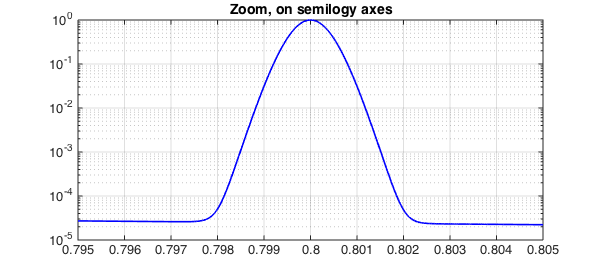
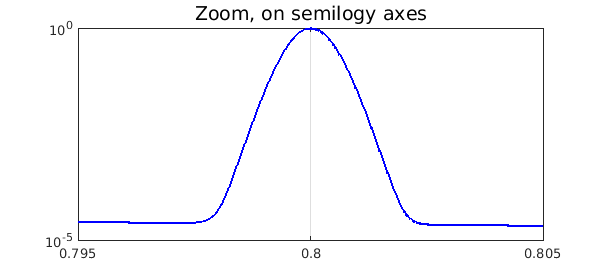
updating SpikeIntegral

diff --git a/examples/quad/img/SpikeIntegral.html b/examples/quad/img/SpikeIntegral.html
@@ -10,27 +10,75 @@ We demonstrate the adaptive capabilities of Chebfun by integrating the "spike fu
 <pre class="mcode-input">f = @(x) sech(10*(x-0.2)).^2 + sech(100*(x-0.4)).^4 + ...
          sech(1000*(x-0.6)).^6 + sech(1000*(x-0.8)).^8;</pre>(which appears as F21F in [1]) over $[0, 1]$.
 
-We create a Chebfun representation and plot the function.
+The Chebfun representation is a very high degree polynomial, but this causes no difficulty.
 
-<pre class="mcode-input">ff = chebfun(f,[0 1], 'splitting','on');
+<pre class="mcode-input">ff = chebfun(f,[0 1])
 LW = 'linewidth';
-plot(ff,'b',LW,1.6,'numpts',1e4), grid on
-title('Spike function','FontSize',14)</pre><img src="img/SpikeIntegral_01.png" class="figure" alt="">
+plot(ff,'b',LW,1.6), grid on
+title('Spike function','FontSize',14)</pre><pre class="mcode-output">ff =
+   chebfun column (1 smooth piece)
+       interval       length     endpoint values  
+[       0,       1]    14059     0.071  4.5e-07 
+vertical scale = 1.1 
+</pre><img src="img/SpikeIntegral_01.png" class="figure" alt=""/>
 
 Here is a confirmation that even the narrowest spike is well resolved:
 
 <pre class="mcode-input">semilogy(ff,'b','interval',[.795,.805],LW,1.6), grid on
-title('Zoom, on semilogy axes','FontSize',14)</pre><img src="img/SpikeIntegral_02.png" class="figure" alt="">
+title('Zoom, on semilogy axes','FontSize',14)</pre><img src="img/SpikeIntegral_02.png" class="figure" alt=""/>
 
 Now we compute the integral.  In order to estimate the time for this computation, we create the chebfun again without plotting it.
 
 <pre class="mcode-input">tic
-ff = chebfun(f,[0 1], 'splitting','on');
-sum(ff)</pre><pre class="mcode-output">ans =
+ff = chebfun(f,[0 1]);
+sum(ff)
+toc</pre><pre class="mcode-output">ans =
    0.211717021214835
-</pre>Time for creating this chebfun and integrating it:
+Elapsed time is 0.101789 seconds.
+</pre>Now the degree of that polynomial was forced to be extraordinarily high in order to resolve the narrowest spike.  A much more compressed representation of $f$ can be attained by constructing the chebfun piecewise, using "splitting on".  As of December 2015, if this is done with default parameters, Chebfun fails to detect the narrowest spike:
 
-<pre class="mcode-input">toc</pre><pre class="mcode-output">Elapsed time is 0.549451 seconds.
+<pre class="mcode-input">ff = chebfun(f,[0 1],'splitting','on')
+plot(ff,'b',LW,1.6), grid on
+title('Unresolved spike function with splitting on','FontSize',14)</pre><pre class="mcode-output">ff =
+   chebfun column (6 smooth pieces)
+       interval       length     endpoint values  
+[       0,    0.38]       74     0.071     0.11 
+[    0.38,    0.44]       87      0.11    0.034 
+[    0.44,    0.59]       42     0.034   0.0015 
+[    0.59,     0.6]       97    0.0015   0.0055 
+[     0.6,    0.62]       76    0.0055  0.00081 
+[    0.62,       1]       16   0.00081  4.5e-07 
+vertical scale = 1.1    Total length = 392
+</pre><img src="img/SpikeIntegral_03.png" class="figure" alt=""/>
+
+We can fix the problem by forcing Chebfun to sample at more points.  Note that the total number of parameters is 25 times less than with the global representation.
+
+<pre class="mcode-input">ff = chebfun(f,[0 1],'splitting','on','minSamples',100)
+plot(ff,'b',LW,1.6), grid on
+title('Resolved spike function with splitting on','FontSize',14)</pre><pre class="mcode-output">ff =
+   chebfun column (10 smooth pieces)
+       interval       length     endpoint values  
+[       0,    0.38]       74     0.071     0.11 
+[    0.38,    0.44]       87      0.11    0.034 
+[    0.44,    0.59]       42     0.034   0.0015 
+[    0.59,     0.6]       97    0.0015   0.0055 
+[     0.6,    0.62]       76    0.0055  0.00081 
+[    0.62,    0.78]       16   0.00081  3.6e-05 
+[    0.78,     0.8]       49   3.6e-05  2.6e-05 
+[     0.8,     0.8]       56   2.6e-05     0.11 
+[     0.8,    0.81]       71      0.11  1.9e-05 
+[    0.81,       1]       15   1.9e-05  4.5e-07 
+vertical scale = 1.1    Total length = 583
+</pre><img src="img/SpikeIntegral_04.png" class="figure" alt=""/>
+
+If speed is all you care about, though, nothing has been gained over the first, global approach.  We compute the chebfun again and see that the integral is the same to full precision but the timing is worse:
+
+<pre class="mcode-input">tic
+ff = chebfun(f,[0 1],'splitting','on','minSamples',100);
+sum(ff)
+toc</pre><pre class="mcode-output">ans =
+   0.211717021214835
+Elapsed time is 0.282062 seconds.
 </pre>
 
 ## References

diff --git a/examples/quad/SpikeIntegral.html b/examples/quad/SpikeIntegral.html
@@ -66,31 +66,85 @@
          sech(1000*(x-0.6)).^6 + sech(1000*(x-0.8)).^8;</pre>
 
 <p>(which appears as F21F in [1]) over $[0, 1]$.</p>
-<p>We create a Chebfun representation and plot the function.</p>
-<pre class="mcode-input">ff = chebfun(f,[0 1], 'splitting','on');
+<p>The Chebfun representation is a very high degree polynomial, but this causes no difficulty.</p>
+<pre class="mcode-input">ff = chebfun(f,[0 1])
 LW = 'linewidth';
-plot(ff,'b',LW,1.6,'numpts',1e4), grid on
+plot(ff,'b',LW,1.6), grid on
 title('Spike function','FontSize',14)</pre>
 
-<p><img src="img/SpikeIntegral_01.png" class="figure" alt=""></p>
+<pre class="mcode-output">ff =
+   chebfun column (1 smooth piece)
+       interval       length     endpoint values  
+[       0,       1]    14059     0.071  4.5e-07 
+vertical scale = 1.1 
+</pre>
+
+<p><img src="img/SpikeIntegral_01.png" class="figure" alt=""/></p>
 <p>Here is a confirmation that even the narrowest spike is well resolved:</p>
 <pre class="mcode-input">semilogy(ff,'b','interval',[.795,.805],LW,1.6), grid on
 title('Zoom, on semilogy axes','FontSize',14)</pre>
 
-<p><img src="img/SpikeIntegral_02.png" class="figure" alt=""></p>
+<p><img src="img/SpikeIntegral_02.png" class="figure" alt=""/></p>
 <p>Now we compute the integral.  In order to estimate the time for this computation, we create the chebfun again without plotting it.</p>
 <pre class="mcode-input">tic
-ff = chebfun(f,[0 1], 'splitting','on');
-sum(ff)</pre>
+ff = chebfun(f,[0 1]);
+sum(ff)
+toc</pre>
 
 <pre class="mcode-output">ans =
    0.211717021214835
+Elapsed time is 0.101789 seconds.
 </pre>
 
-<p>Time for creating this chebfun and integrating it:</p>
-<pre class="mcode-input">toc</pre>
+<p>Now the degree of that polynomial was forced to be extraordinarily high in order to resolve the narrowest spike.  A much more compressed representation of $f$ can be attained by constructing the chebfun piecewise, using "splitting on".  As of December 2015, if this is done with default parameters, Chebfun fails to detect the narrowest spike:</p>
+<pre class="mcode-input">ff = chebfun(f,[0 1],'splitting','on')
+plot(ff,'b',LW,1.6), grid on
+title('Unresolved spike function with splitting on','FontSize',14)</pre>
 
-<pre class="mcode-output">Elapsed time is 0.549451 seconds.
+<pre class="mcode-output">ff =
+   chebfun column (6 smooth pieces)
+       interval       length     endpoint values  
+[       0,    0.38]       74     0.071     0.11 
+[    0.38,    0.44]       87      0.11    0.034 
+[    0.44,    0.59]       42     0.034   0.0015 
+[    0.59,     0.6]       97    0.0015   0.0055 
+[     0.6,    0.62]       76    0.0055  0.00081 
+[    0.62,       1]       16   0.00081  4.5e-07 
+vertical scale = 1.1    Total length = 392
+</pre>
+
+<p><img src="img/SpikeIntegral_03.png" class="figure" alt=""/></p>
+<p>We can fix the problem by forcing Chebfun to sample at more points.  Note that the total number of parameters is 25 times less than with the global representation.</p>
+<pre class="mcode-input">ff = chebfun(f,[0 1],'splitting','on','minSamples',100)
+plot(ff,'b',LW,1.6), grid on
+title('Resolved spike function with splitting on','FontSize',14)</pre>
+
+<pre class="mcode-output">ff =
+   chebfun column (10 smooth pieces)
+       interval       length     endpoint values  
+[       0,    0.38]       74     0.071     0.11 
+[    0.38,    0.44]       87      0.11    0.034 
+[    0.44,    0.59]       42     0.034   0.0015 
+[    0.59,     0.6]       97    0.0015   0.0055 
+[     0.6,    0.62]       76    0.0055  0.00081 
+[    0.62,    0.78]       16   0.00081  3.6e-05 
+[    0.78,     0.8]       49   3.6e-05  2.6e-05 
+[     0.8,     0.8]       56   2.6e-05     0.11 
+[     0.8,    0.81]       71      0.11  1.9e-05 
+[    0.81,       1]       15   1.9e-05  4.5e-07 
+vertical scale = 1.1    Total length = 583
+</pre>
+
+<p><img src="img/SpikeIntegral_04.png" class="figure" alt=""/></p>
+<p>If speed is all you care about, though, nothing has been gained over the first, global approach.  We compute the chebfun again and see that the integral is the same to full precision but the timing is worse:</p>
+<pre class="mcode-input">tic
+ff = chebfun(f,[0 1],'splitting','on','minSamples',100);
+sum(ff)
+toc</pre>
+
+<pre class="mcode-output">ans =
+   0.211717021214835
+Elapsed time is 0.282062 seconds.
 </pre>
 
 <h3 id="references">References</h3>

diff --git a/index.html b/index.html
@@ -208,5 +208,5 @@ plot(minx(1),minx(2),'.w')
     <script type="text/javascript" src="/js/config.js"></script>
     <script type="text/javascript" src="/js/jquery.flexslider-min.js"></script>
   </body>
-<!-- Compiled on Friday, 11 December 2015 at 12:30. -->
+<!-- Compiled on Thursday, 17 December 2015 at 09:34. -->
 </html>
